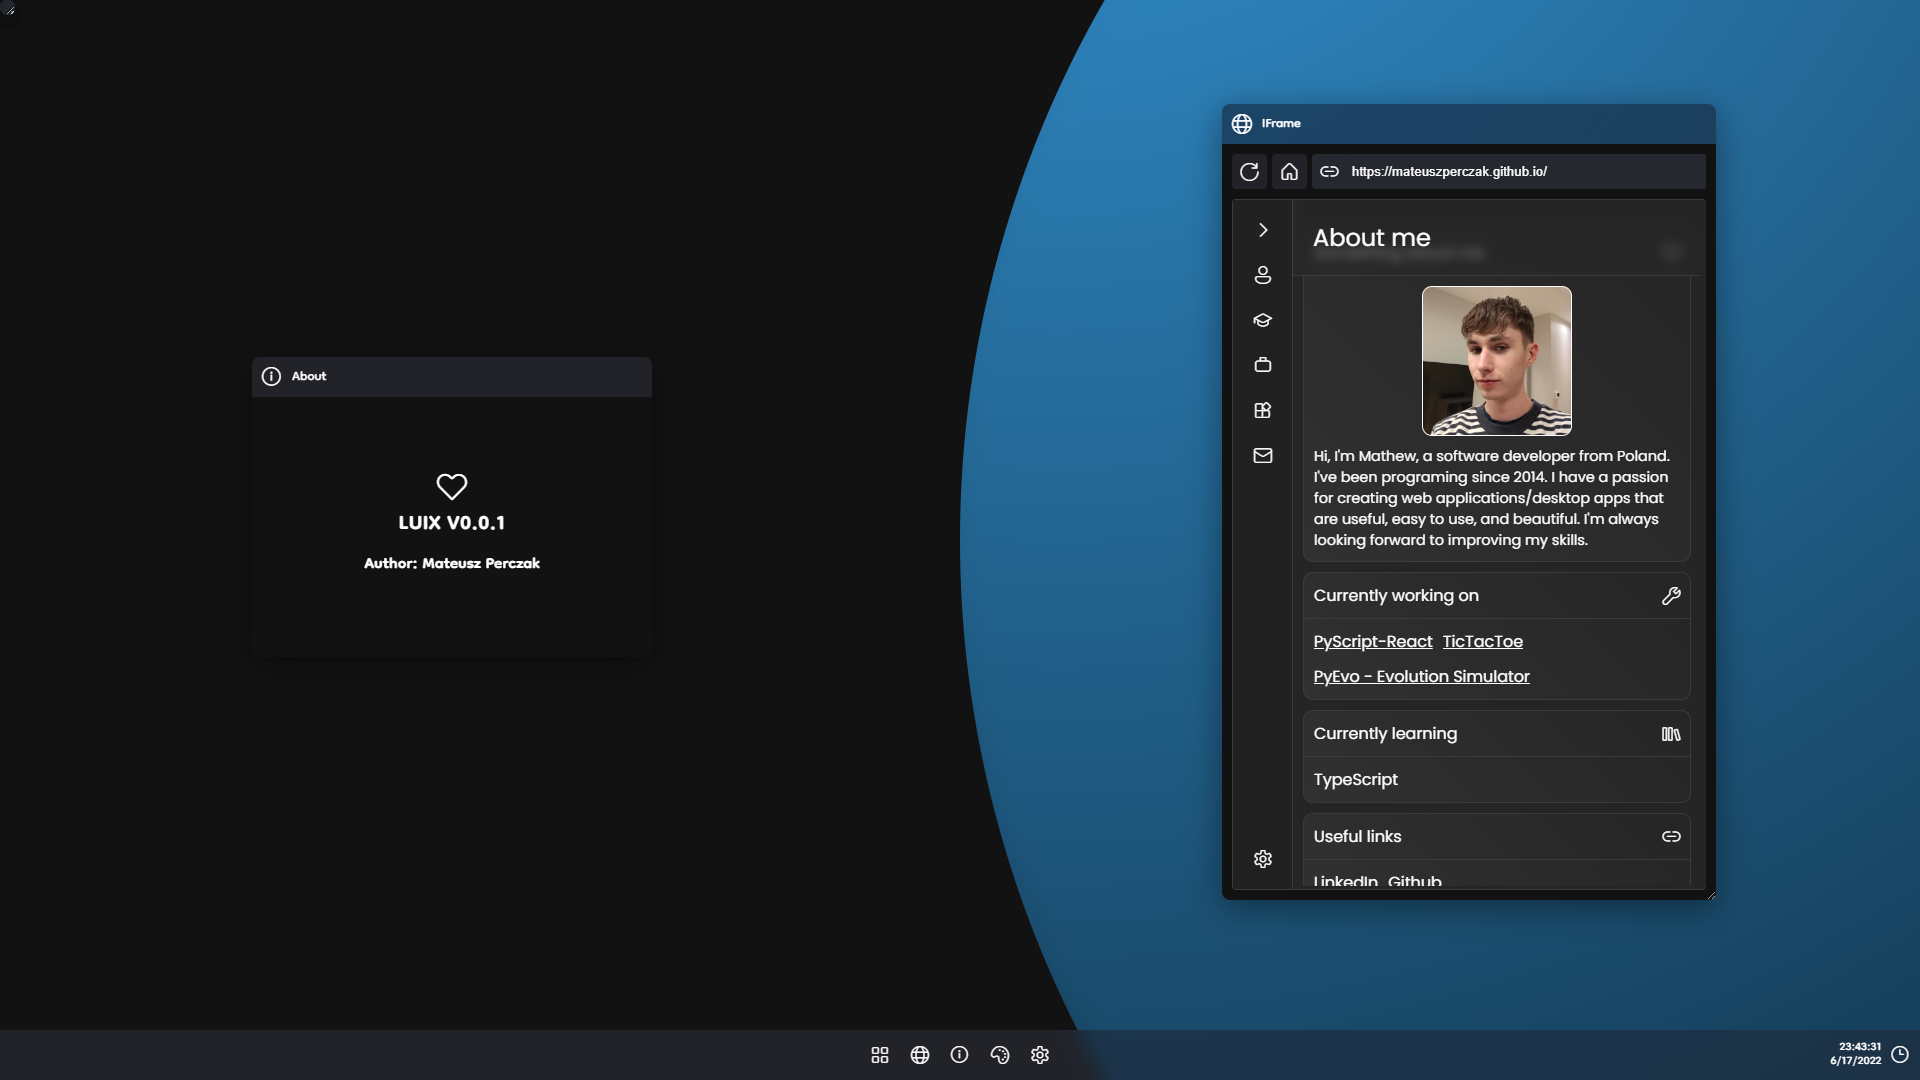
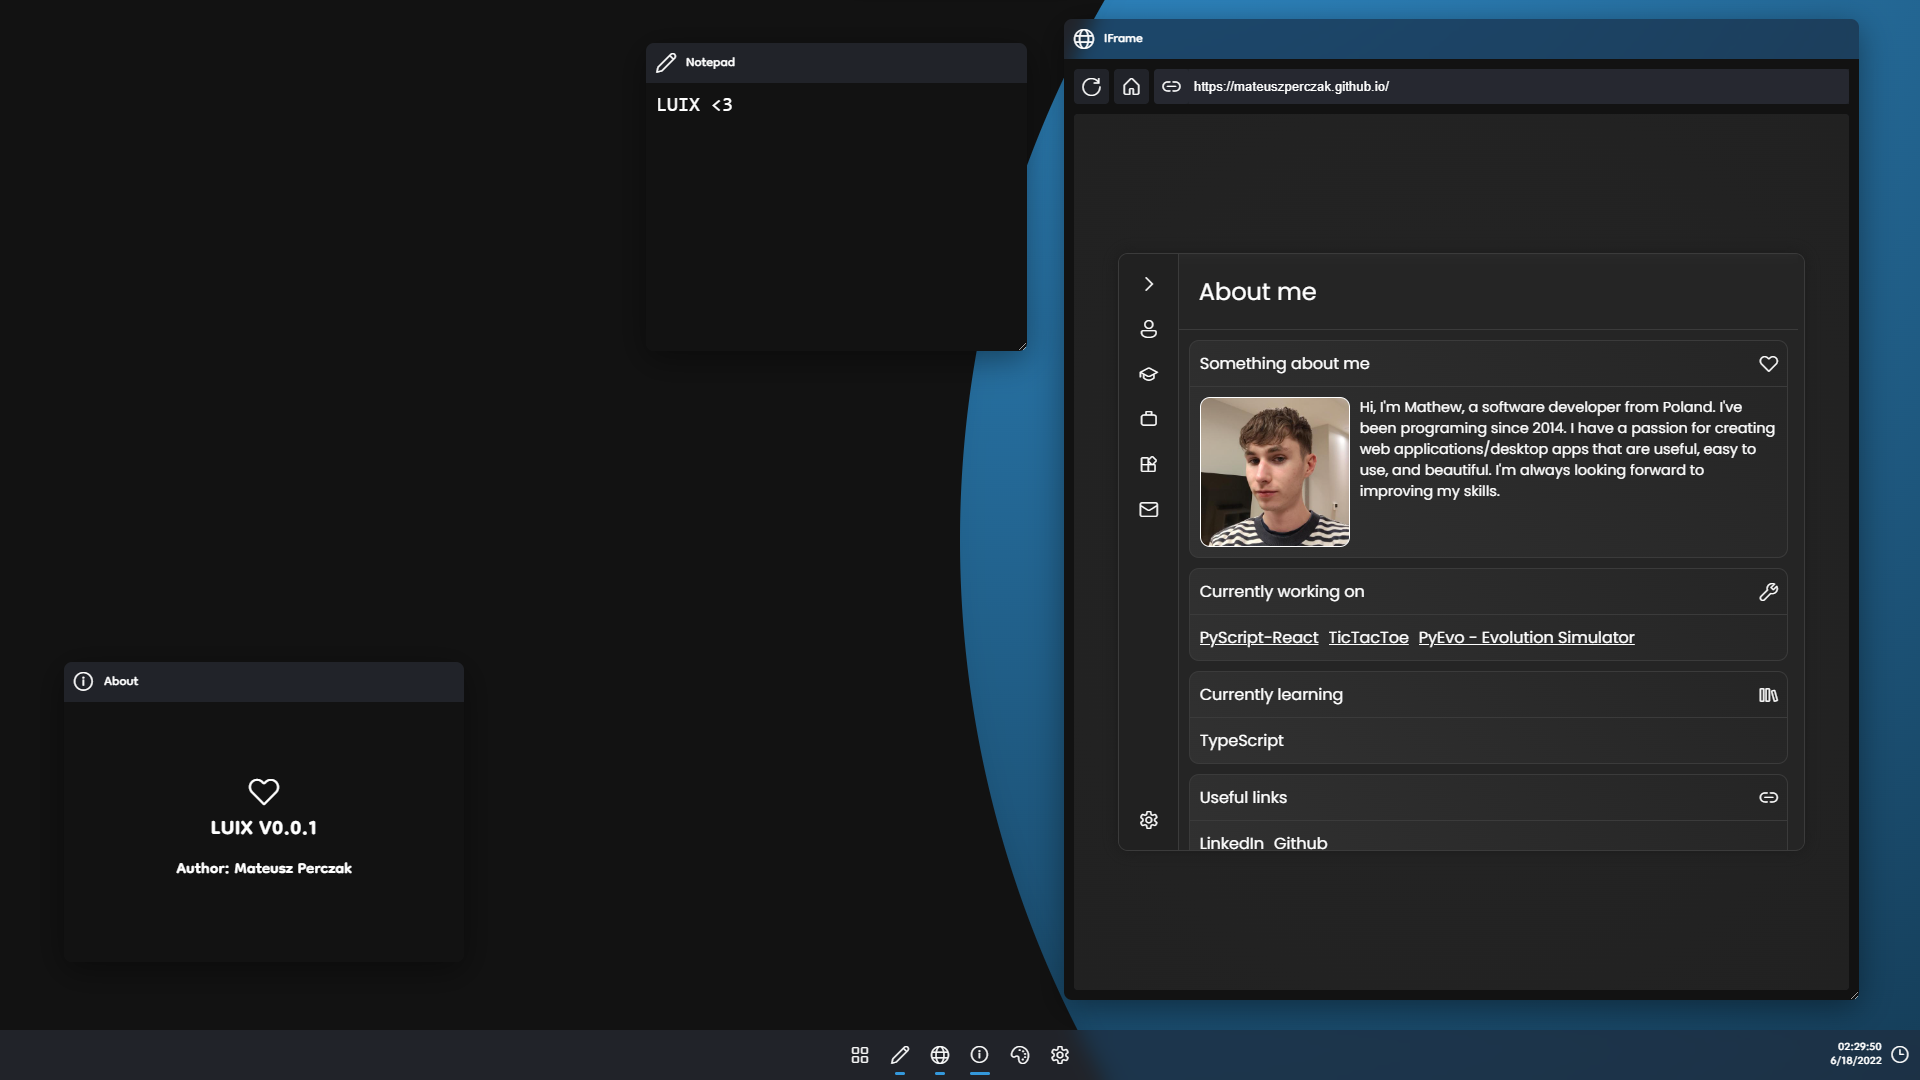
Added notepad

diff --git a/src/Components/Window/Window.jsx b/src/Components/Window/Window.jsx
@@ -8,11 +8,25 @@ const StyledWindow = styled.div`
   height: 300px;
   border-radius: 8px;
   overflow: hidden;
+  z-index: ${({ focusedApp }) => {
+    return focusedApp ? "3" : "1";
+  }};
   resize: ${({ resizable }) => {
     return resizable ? "both" : "none";
   }};
   box-shadow: 0 8px 32px 0 rgba(0, 0, 0, 0.4);
   position: absolute;
+  animation: fadeIn 300ms;
+  @keyframes fadeIn {
+    from {
+      opacity: 0;
+      transform: scale(0.95);
+    }
+    to {
+      opacity: 1;
+      transform: scale(1);
+    }
+  }
 `;
 
 const StyledContent = styled.div`
@@ -23,10 +37,21 @@ const StyledContent = styled.div`
   }};
 `;
 
-const Window = ({ name, icon, component, resizable }) => {
+const Window = ({
+  name,
+  icon,
+  component,
+  resizable,
+  focusedApp,
+  setFocusedApp,
+}) => {
   return (
     <Draggable handle={`.app-${name}`} bounds="parent">
-      <StyledWindow resizable={resizable}>
+      <StyledWindow
+        resizable={resizable}
+        focusedApp={focusedApp === name}
+        onMouseDownCapture={() => setFocusedApp(name)}
+      >
         <WindowTitle name={name} icon={icon} />
         <StyledContent>{createElement(component)}</StyledContent>
       </StyledWindow>

diff --git a/src/Components/Desktop/Desktop.jsx b/src/Components/Desktop/Desktop.jsx
@@ -13,15 +13,28 @@ const StyledLoader = styled.div`
 
 const Desktop = () => {
   const [apps, setApps] = useState(localApps);
+  const [focusedApp, setFocusedApp] = useState(null);
 
   return (
     <StyledLoader>
       <WindowProvider>
         {apps.map((app, index) => {
-          return <Window key={index} {...app} />;
+          return app.isOpen ? (
+            <Window
+              key={index}
+              focusedApp={focusedApp}
+              setFocusedApp={setFocusedApp}
+              {...app}
+            />
+          ) : null;
         })}
       </WindowProvider>
-      <TaskBar apps={apps} />
+      <TaskBar
+        apps={apps}
+        setApps={setApps}
+        focusedApp={focusedApp}
+        setFocusedApp={setFocusedApp}
+      />
     </StyledLoader>
   );
 };

diff --git a/src/Components/TaskBar/TaskBarApp.jsx b/src/Components/TaskBar/TaskBarApp.jsx
@@ -43,11 +43,25 @@ const StyledTaskBarIcon = styled.div`
     transition: transform 100ms;
     transition-delay: 400ms;
   }
+  &:after {
+    content: "";
+    position: absolute;
+    bottom: 0;
+    width: ${({ isOpen, focusedApp, name }) => {
+      return isOpen ? (name === focusedApp ? "20px" : "10px") : "0";
+    }};
+    height: 3px;
+    border-radius: 2px;
+    background: ${({ theme: { accentBackground } }) => {
+      return accentBackground;
+    }};
+    transition: width 300ms;
+  }
 `;
 
-const TaskBarApp = ({ icon, tooltip, ...rest }) => {
+const TaskBarApp = ({ icon, name, ...rest }) => {
   return (
-    <StyledTaskBarIcon tooltip={tooltip} {...rest}>
+    <StyledTaskBarIcon name={name} {...rest}>
       <TaskBarIcon>{icon}</TaskBarIcon>
     </StyledTaskBarIcon>
   );

diff --git a/src/Components/TaskBar/TaskBar.jsx b/src/Components/TaskBar/TaskBar.jsx
@@ -21,11 +21,28 @@ const StyledTaskBar = styled.nav`
   }};
 `;
 
-const TaskBar = ({ apps }) => {
+const TaskBar = ({ apps, setApps, focusedApp, setFocusedApp }) => {
+  const openApp = (app) => {
+    const oldApps = [...apps];
+    const targetApp = oldApps.find((lol) => lol === app);
+    if (!targetApp.isOpen) {
+      targetApp.isOpen = true;
+    }
+    setFocusedApp(targetApp.name);
+    setApps(oldApps);
+  };
+
   return (
     <StyledTaskBar>
       {apps.map((app, index) => {
-        return <TaskBarApp key={index} {...app} />;
+        return (
+          <TaskBarApp
+            key={index}
+            focusedApp={focusedApp}
+            {...app}
+            onClick={() => openApp(app)}
+          />
+        );
       })}
 
       <TaskBarClock />

diff --git a/src/Apps/Notepad/Notepad.jsx b/src/Apps/Notepad/Notepad.jsx
@@ -1,0 +1,30 @@
+import styled from "@emotion/styled";
+
+const StyledNotepad = styled.div`
+  width: 100%;
+  height: 100%;
+  padding: 10px;
+`;
+
+const Styledinput = styled.textarea`
+  border: none;
+  outline: none;
+  background: transparent;
+  width: 100%;
+  height: 100%;
+  resize: none;
+  font-size: 20px;
+  color: ${({ theme: { color } }) => {
+    return color;
+  }};
+`;
+
+const Notepad = () => {
+  return (
+    <StyledNotepad>
+      <Styledinput />
+    </StyledNotepad>
+  );
+};
+
+export default Notepad;

diff --git a/src/Global/Styles.jsx b/src/Global/Styles.jsx
@@ -24,6 +24,20 @@ const Styles = ({ theme }) => {
           width: 100vw;
           height: 100vh;
         }
+        ::-webkit-scrollbar {
+          width: 6px;
+        }
+        ::-webkit-scrollbar-track {
+          background: ${theme.background};
+        }
+        ::-webkit-scrollbar-thumb {
+          background: ${theme.taskBar};
+          border-radius: 4px;
+        }
+        ::selection {
+          background: ${theme.color};
+          color: ${theme.background};
+        }
       `}
     />
   );

diff --git a/src/Apps/apps.js b/src/Apps/apps.js
@@ -1,5 +1,6 @@
 import IFrame from "./IFrame/IFrame";
 import About from "./About/About";
+import Notepad from "./Notepad/Notepad";
 
 const Dummy = () => {};
 
@@ -38,6 +39,14 @@ const apps = [
   },
   {
     id: 4,
+    name: "Notepad",
+    icon: "\uE104",
+    tooltip: "Notepad",
+    component: Notepad,
+    resizable: true,
+  },
+  {
+    id: 5,
     name: "Menu",
     icon: "\uE154",
     tooltip: "Menu",
